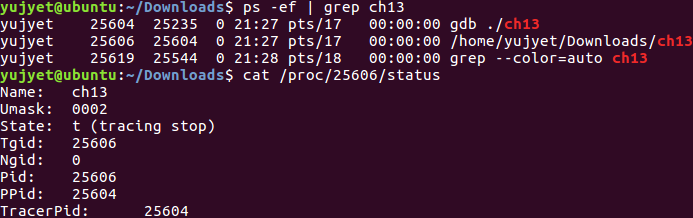
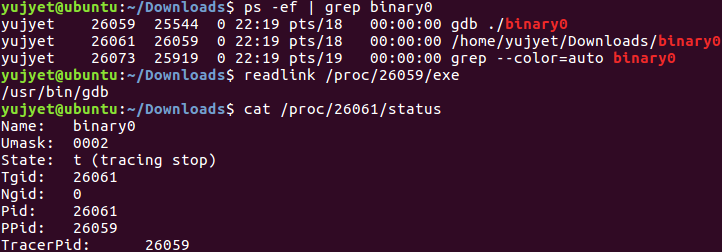
update pic

Changed region(s): [[0.0, 0.0, 1.0, 1.0], [0.1818, 0.9358, 0.2727, 1.0]]

diff --git a/README.md b/README.md
@@ -519,7 +519,7 @@ __NOTE__: Here is a collage of reverse engineering topics that I find interestin
 
 <div align='center'> 
 <img src="https://github.com/yellowbyte/reverse-engineering-reference-manual/blob/master/images/anti-analysis/Anti-Debugging/proc_status.png"> 
-<p align='center'><sub><strong>a tracee is identified using /proc/&lt;pid&gt;/status</strong></sub></p>
+<p align='center'><sub><strong>a tracee is identified using /proc/&lt;pid&gt;/status and its corresponding tracer is identified using readlink</strong></sub></p>
 </div>
 
 * __Using Flags within the PEB structure to Detect Debugger's Presence (Windows)__
